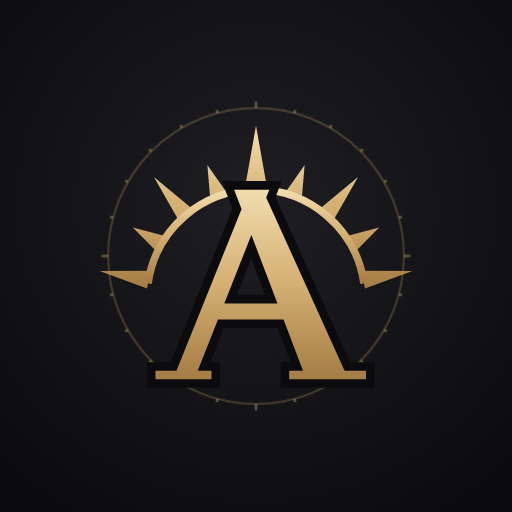
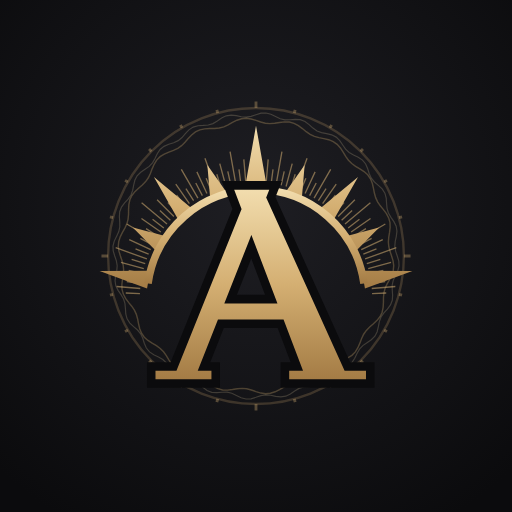
feat(brand): add sunburst and wavy halo rings to the emblem
Claude-Session: https://claude.ai/code/session_01DTGRKP2GKmjx7HEPeqQvZd

diff --git a/scripts/brand/generate_brand_assets.py b/scripts/brand/generate_brand_assets.py
@@ -33,6 +33,7 @@ from fontTools.varLib.instancer import instantiateVariableFont
 ROOT = Path(__file__).resolve().parents[2]
 DRAWABLE = ROOT / "app/src/main/res/drawable"
 BRAND = ROOT / "docs/brand"
+WEBSITE = ROOT / "website/assets"
 FONT = ROOT / "app/src/main/res/font/cinzel.ttf"
 
 # Palette (mirrors theme/presets/ApolloScheme.kt).
@@ -137,7 +138,35 @@ def ring() -> str:
     return f"M{54 - r},54 A{r},{r} 0 1,1 {54 + r},54 A{r},{r} 0 1,1 {54 - r},54"
 
 
+def sunburst(count: int = 144) -> str:
+    """Fine radiating lines behind the crown (the "trippy" layer since 2026-10-13)."""
+    cx, cy = 54.0, 63.0
+    lines = []
+    for i in range(count):
+        t = math.radians(-180 + i * 360 / count)
+        if math.sin(t) > -0.02:  # rays only above the horizon, like the crown
+            continue
+        r0 = 24.5
+        r1 = 31.5 if i % 4 == 0 else (29.5 if i % 2 == 0 else 27.5)
+        lines.append(
+            f"M{cx + r0 * math.cos(t):.2f},{cy + r0 * math.sin(t):.2f} "
+            f"L{cx + r1 * math.cos(t):.2f},{cy + r1 * math.sin(t):.2f}",
+        )
+    return " ".join(lines)
+
+
+def wave_ring(r: float, amplitude: float, waves: int, steps: int = 180) -> str:
+    """Closed ring whose radius undulates: a subtle op-art halo."""
+    pts = []
+    for i in range(steps):
+        t = 2 * math.pi * i / steps
+        rr = r + amplitude * math.sin(waves * t)
+        pts.append((54 + rr * math.cos(t), 54 + rr * math.sin(t)))
+    return poly(pts)
+
+
 SPIKES, DIADEM, LETTER_A, TICKS, RING = crown_spikes(), diadem(), roman_a(), dial_ticks(), ring()
+BURST, HALO_A, HALO_B = sunburst(), wave_ring(28.6, 0.55, 18), wave_ring(29.8, 0.45, 24)
 
 
 # ---------------------------------------------------------------------------
@@ -235,6 +264,9 @@ def emblem_layers(knockout: str, tech: bool) -> str:
     if tech:
         body += path_xml(RING, stroke=GOLD, width=0.5, alpha=0.22)
         body += path_xml(TICKS, stroke=GOLD, width=0.6, alpha=0.35)
+        body += path_xml(HALO_A, stroke=GOLD, width=0.3, alpha=0.30)
+        body += path_xml(HALO_B, stroke=GOLD_LIGHT, width=0.25, alpha=0.20)
+        body += path_xml(BURST, stroke=GOLD, width=0.28, alpha=0.55)
     body += path_xml(SPIKES, gradient=gold_gradient_xml("android:fillColor", 54, 26, 63))
     body += path_xml(DIADEM, gradient=gold_gradient_xml("android:strokeColor", 54, 40, 63), extra='android:strokeWidth="1.6"')
     body += path_xml(LETTER_A, fill=knockout, stroke=knockout, width=3.6, extra='android:strokeLineJoin="miter"')
@@ -314,14 +346,17 @@ def svg_gold_defs(prefix: str = "") -> str:
             f'<stop offset="1" stop-color="{INK}"/></radialGradient>')
 
 
-def svg_emblem(prefix: str = "", tech: bool = True) -> str:
+def svg_emblem(prefix: str = "", tech: bool = True, knockout: str = INK) -> str:
     s = ""
     if tech:
         s += f'<path d="{RING}" fill="none" stroke="{GOLD}" stroke-opacity="0.22" stroke-width="0.5"/>'
         s += f'<path d="{TICKS}" fill="none" stroke="{GOLD}" stroke-opacity="0.35" stroke-width="0.6"/>'
+        s += f'<path d="{HALO_A}" fill="none" stroke="{GOLD}" stroke-opacity="0.30" stroke-width="0.3"/>'
+        s += f'<path d="{HALO_B}" fill="none" stroke="{GOLD_LIGHT}" stroke-opacity="0.20" stroke-width="0.25"/>'
+        s += f'<path d="{BURST}" fill="none" stroke="{GOLD}" stroke-opacity="0.55" stroke-width="0.28"/>'
     s += f'<path d="{SPIKES}" fill="url(#{prefix}gold)"/>'
     s += f'<path d="{DIADEM}" fill="none" stroke="url(#{prefix}gold)" stroke-width="1.6"/>'
-    s += f'<path d="{LETTER_A}" fill="{INK}" stroke="{INK}" stroke-width="3.6" stroke-linejoin="miter"/>'
+    s += f'<path d="{LETTER_A}" fill="{knockout}" stroke="{knockout}" stroke-width="3.6" stroke-linejoin="miter"/>'
     s += f'<path d="{LETTER_A}" fill="url(#{prefix}gold)"/>'
     return s
 
@@ -391,6 +426,11 @@ def svg_assets(font: TTFont) -> None:
           f'viewBox="{b[0]} {b[1]} {w} {h}"><title>APOLLO</title><path d="{word}" fill="{GOLD}"/></svg>')
     write(BRAND / "apollo-banner.svg", banner_svg(font, 1280, 400, 300))
     write(BRAND / "apollo-feature-graphic.svg", banner_svg(font, 1024, 500, 330))
+    # Transparent emblems for the website (apollo.wutz.io) and its favicon.
+    for name, knockout in (("apollo-emblem-dark.svg", "#000000"), ("apollo-emblem-light.svg", MARBLE_LIGHT)):
+        write(WEBSITE / name,
+              f'<svg xmlns="http://www.w3.org/2000/svg" width="256" height="256" viewBox="17 17 74 74">'
+              f"<title>Apollo</title><defs>{svg_gold_defs()}</defs>{svg_emblem(knockout=knockout)}</svg>")
 
 
 def main() -> None:
